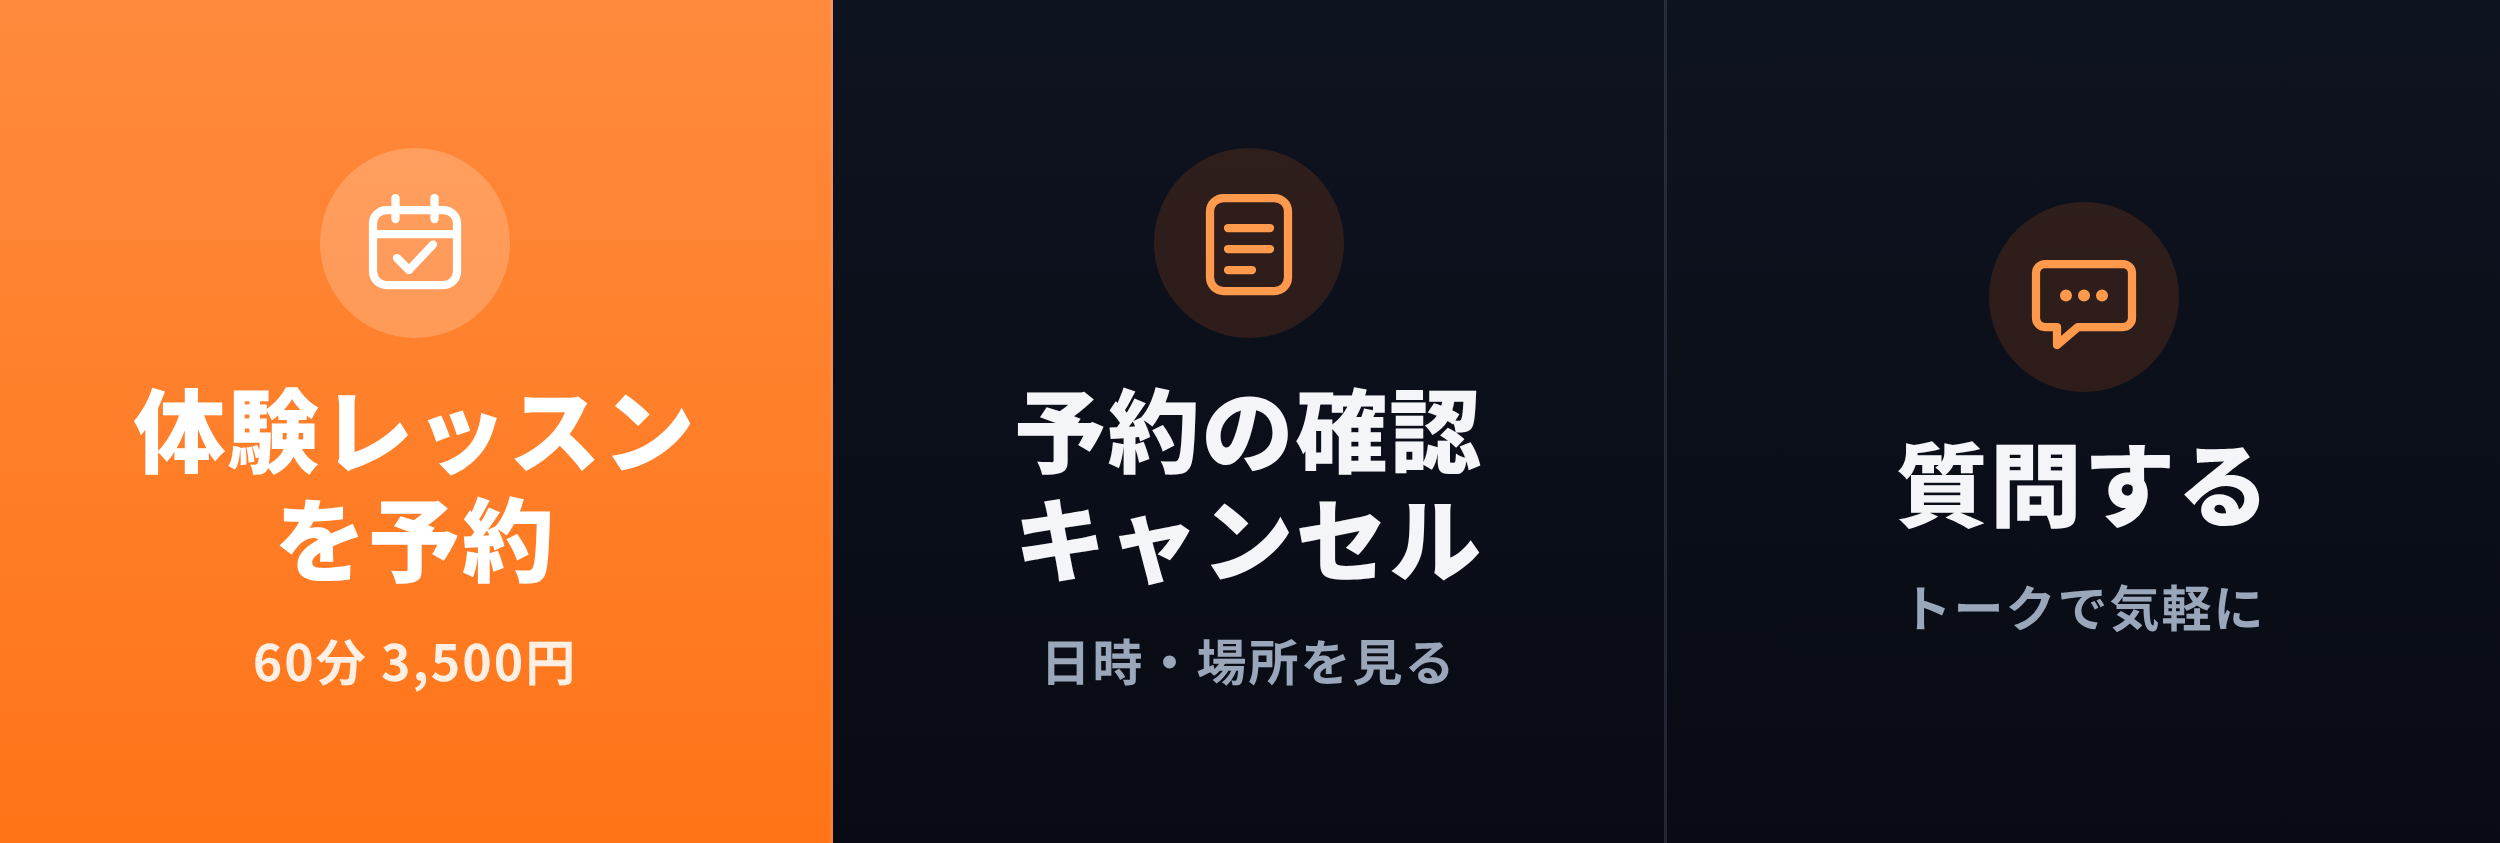
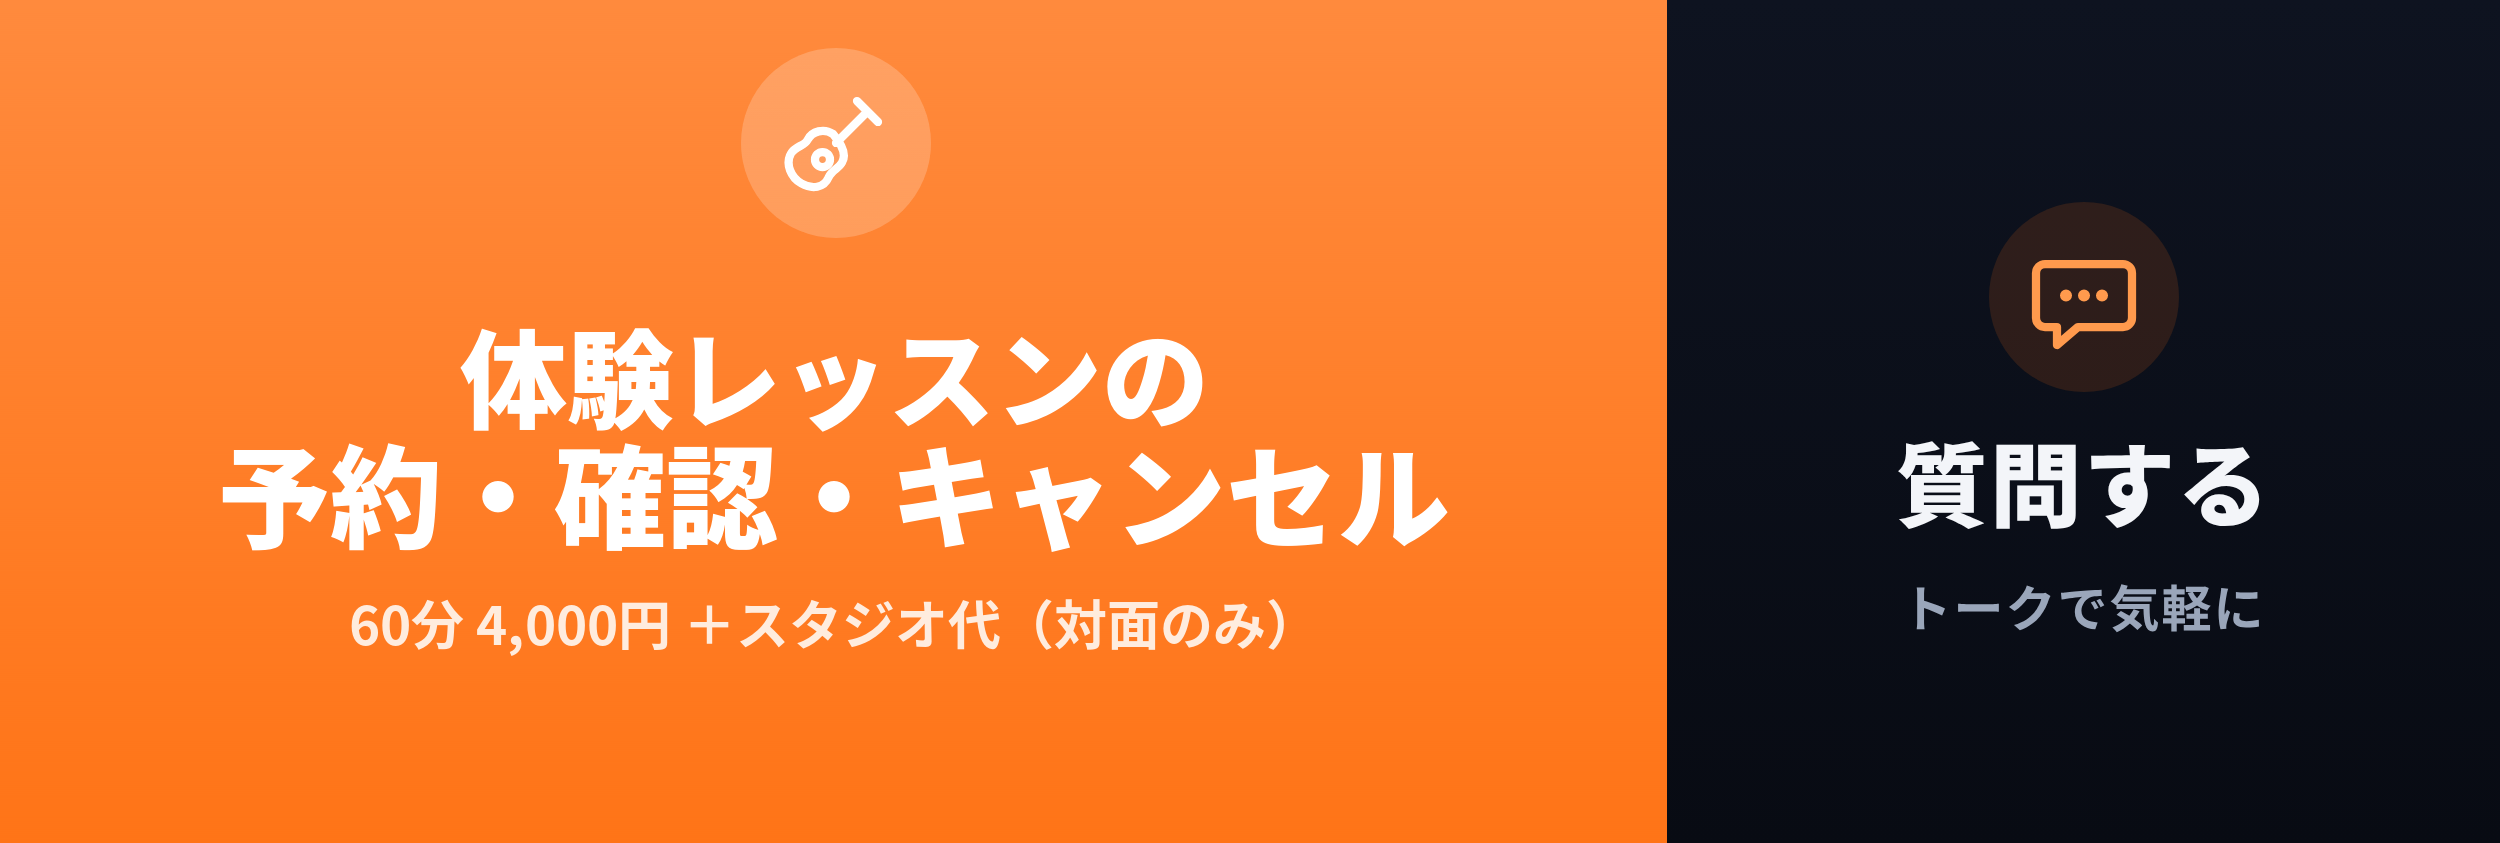
LINE のメニュー：はじめての人も「体験レッスンの予約・確認・キャンセル」と「質問する」の2つに（60分 4,000円 ＋スタジオ代（対面のみ））。生徒さんのメニューから「この1つで、ぜんぶできます」を消す（北川くん）／体験の予約ページ：メールで申し込んだ人に「LINE で予約を確定する」を大きく（送るとその場で確定・お知らせは LINE に。LINE を使わない人はメールで）（北川くん）／生徒さんページ：カレンダーの「今日」の札が2行に折れてかぶっていたのを直す・「この回を取り消す」を決定ボタンのすぐ下に・時計をなぞると LINE のブラウザごと引っぱられたのを止める（北川くんの iPho
Claude-Session: https://claude.ai/code/session_01EBbmQH4uHZhFN8RZfufdhq

diff --git a/assets/js/yoyaku.js b/assets/js/yoyaku.js
@@ -263,7 +263,7 @@
       from: $("y_from").value, website: $("y_web").value, prev, l: lkey };
     const btn = $("ykSend"), err = $("ykErr");
     btn.disabled = true; btn.textContent = "送っています…"; hideErr(err);
-    const send = demo ? new Promise(r => setTimeout(() => r(lkey ? { ok: true, line: true, mode } : { ok: true, pending: true, mode, min: 30, rid: "demo", rk: "demo" }), 700))
+    const send = demo ? new Promise(r => setTimeout(() => r(lkey ? { ok: true, line: true, mode } : { ok: true, pending: true, mode, min: 30, rid: "demo", rk: "demo", lineOk: "https://line.me/R/oaMessage/%40557brylm/" }), 700))
       : fetch(cfg.api, { method: "POST", body: JSON.stringify(data) }).then(r => r.json());
     send.then(r => {
       if (!r.ok) {
@@ -286,10 +286,39 @@
       el.innerHTML = `<span class="chip gr">CONFIRMED</span><h3>予約が確定しました</h3>`
         + `<p>LINE に、確定のお知らせを送りました。${d.mode === "studio" ? "<b>スタジオのお部屋は、レッスンの前の日に北川が予約</b>して、場所を LINE でお知らせします。" : "当日の入り口（Google Meet のリンク）も、LINE のお知らせに入っています。"}</p>`
         + `<ol class="yk-picked">${list}</ol>`
-        + `<p class="small">予約の確認・キャンセルは、LINE のメニューの「予約の確認・キャンセル」からできます。${demo ? "<br>（これは見本です。実際には送っていません）" : ""}</p>`
+        + `<p class="small">予約の確認・キャンセルは、LINE のメニューの「体験レッスンの予約・確認・キャンセル」からできます。${demo ? "<br>（これは見本です。実際には送っていません）" : ""}</p>`
         + (cfg.line ? `<a class="btn or" href="${esc(cfg.line)}">LINE のトークにもどる</a>` : "");
       form.hidden = true; $("ykLine").hidden = true; el.hidden = false;
       el.scrollIntoView({ behavior: "smooth", block: "start" }); el.focus({ preventScroll: true });
+      return;
+    }
+    /* 2026-11-10：メールで申し込んだ人にも、まず「LINE で予約を確定する」を大きく（北川くん）。送るとその場で確定して、お知らせは LINE に届く。
+       LINE を使わない人は、下の小さいボタンから今までどおりメールで確定 */
+    if (r.lineOk && !r.mailWay) {
+      el.innerHTML = `<div class="sk-gate yk-lgate"><span class="chip or">あと1つ</span><h3>LINE で予約を<wbr>確定しましょう</h3>`
+        + `<p>確定のお知らせや、前の日のお知らせ・お部屋の場所が LINE に届きます。</p>`
+        + `<ol class="yk-picked">${list}</ol>`
+        + `<ol class="sk-gs"><li>下のボタンを押すと、LINE が開きます</li><li>入っている文を、そのまま送ってください</li><li>その場で予約が確定します</li></ol>`
+        + `<a class="sk-lnb" id="ykLnOk" href="${esc(r.lineOk)}" target="_blank" rel="noopener"><span>LINE</span>LINE で予約を確定する</a>`
+        + `<p class="sk-gw" id="ykLnWait" hidden>LINE で送ったら、このページに戻ってきてください。確定したか確かめています…</p>`
+        + `<p class="small">${min}分以内に送ってください。公式LINE を友だち追加していない方は、追加してから送るとお知らせが届きます。</p>`
+        + `<button type="button" class="sk-skip" id="ykMailWay">LINE を使わない（メールで確定する）</button></div>`;
+      form.hidden = true; $("ykLine").hidden = true; el.hidden = false;
+      el.scrollIntoView({ behavior: "smooth", block: "start" }); el.focus({ preventScroll: true });
+      let wait = false, tries = 0, timer = 0;
+      const check = () => {
+        if (!wait || document.hidden) return;
+        if (++tries > 30) { clearInterval(timer); return; }
+        const q = demo ? new Promise(res => setTimeout(() => res({ ok: true, state: tries > 1 ? "確定" : "確認待ち", line: tries > 1 }), 300))
+          : fetch(cfg.api + "?a=tst&id=" + encodeURIComponent(r.rid) + "&k=" + encodeURIComponent(r.rk), { cache: "no-store" }).then(x => x.json());
+        q.then(x => { if (wait && x && x.ok && x.state === "確定") { wait = false; clearInterval(timer); finish(d, { ok: true, line: true, mode: d.mode }); } }).catch(() => {});
+      };
+      $("ykLnOk").addEventListener("click", () => {
+        wait = true; tries = 0; $("ykLnWait").hidden = false;
+        clearInterval(timer); timer = setInterval(check, 4000);
+      });
+      document.addEventListener("visibilitychange", () => { if (!document.hidden && wait) setTimeout(check, 600); });
+      $("ykMailWay").addEventListener("click", () => { wait = false; clearInterval(timer); finish(d, Object.assign({}, r, { mailWay: true })); });
       return;
     }
     el.innerHTML = `<span class="chip or">あと1つ</span><h3>メールのリンクを開くと、予約が確定します</h3>`

diff --git a/assets/js/seito.js b/assets/js/seito.js
@@ -393,6 +393,11 @@
   });
   const dragEnd = e => { if (!drag || e.pointerId !== drag.id) return; const d = drag; drag = null; if (!d.moved && e.type === "pointerup") tapHour(d.a); };
   shC.addEventListener("pointerup", dragEnd); shC.addEventListener("pointercancel", dragEnd);
+  /* 2026-11-10：時計を指でなぞると、LINE のブラウザごと下に引っぱられたり、シートがスクロールしたりしていた（北川くんの iPhone 8 の動画）。
+     時計に触れているあいだは、画面のスクロール・引っぱりを止める（古い Safari は touch-action だけでは止まらない） */
+  const holdTouch = e => { if (sheet === "time" && e.target.closest && e.target.closest(".sh-clock svg")) e.preventDefault(); };
+  shC.addEventListener("touchstart", holdTouch, { passive: false });
+  shC.addEventListener("touchmove", holdTouch, { passive: false });
   function shContent(f){
     $("skShT").textContent = FT[f];
     let h = "";
@@ -424,8 +429,9 @@
             : `<button type="button" class="sh-t" data-t="${x.t}"><b>${hm(x.t)}</b><small>〜${hm(x.t + H)}</small></button>`).join("") + `</div></div>`).join("");
     }
     const v = V(f), lab = !v ? "" : f === "mode" ? ML(v) : f === "day" ? `${md(T12(v))}（${wd(T12(v))}）` : "";
-    h += `<div class="sh-okw"><button type="button" class="btn or sh-ok" data-ok${v ? "" : " disabled"}>${v ? `<span>${lab}</span>で決定` : "選んでください"}</button></div>`;
-    if (ed.orig) h += `<button type="button" class="sh-rm" data-rmd>この回を取り消す</button>`;
+    /* 2026-11-10：「この回を取り消す」は決定ボタンの下（同じ枠の中）に。前は下に残るボタンの裏にかくれていた（北川くんの iPhone 8） */
+    h += `<div class="sh-okw"><button type="button" class="btn or sh-ok" data-ok${v ? "" : " disabled"}>${v ? `<span>${lab}</span>で決定` : "選んでください"}</button>`
+      + (ed.orig ? `<button type="button" class="sh-rm" data-rmd>この回を取り消す</button>` : "") + `</div>`;
     shC.innerHTML = h;
     if (f === "time") paintClock(true);
   }

diff --git a/yoyaku.html b/yoyaku.html
@@ -22,7 +22,7 @@
 <link rel="icon" href="assets/favicon-48.png" sizes="48x48" type="image/png">
 <link rel="apple-touch-icon" href="assets/apple-touch-icon.png">
 <link rel="stylesheet" href="assets/css/kk-design-system.css?v=69foca">
-<link rel="stylesheet" href="assets/css/site.css?v=mbssfl">
+<link rel="stylesheet" href="assets/css/site.css?v=e3ua3j">
 <script async src="https://www.googletagmanager.com/gtag/js?id=G-5JD2YM6KF8"></script>
 <script>window.dataLayer=window.dataLayer||[];function gtag(){dataLayer.push(arguments)}gtag("js",new Date());var kkF={ig:"instagram",x:"x",yt:"youtube",tt:"tiktok",sp:"spotify"}[(new URLSearchParams(location.search).get("from")||"").toLowerCase()];gtag("config","G-5JD2YM6KF8",{page_location:location.origin+location.pathname+(kkF?"?utm_source="+kkF+"&utm_medium=social":""),page_referrer:document.referrer.split("?")[0]});
 document.addEventListener("click",function(e){var a=e.target.closest&&e.target.closest("a[href]");if(!a)return;var h=a.getAttribute("href")||"",w=location.pathname;if(/line\.me/.test(h))gtag("event","line_click",{place:w});else if(/yoyaku\.html/.test(h))gtag("event","booking_page_click",{place:w});else if(/lesson\.html/.test(h))gtag("event","lesson_page_click",{place:w});},true);</script>
@@ -114,6 +114,6 @@ document.addEventListener("click",function(e){var a=e.target.closest&&e.target.c
 </main>
 <footer class="yk-ft"><div class="wrap"><small>© 2026 Koki Kitagawa　<a href="./">トップへ</a>　<a href="privacy.html">プライバシーポリシー</a></small></div></footer>
 <script type="application/json" id="ykcfg">{"api":"https://script.google.com/macros/s/AKfycby5bDtbLyKAmUYFXvM5kCBlsdzIqFw126P8803WqGTCRkEivEgTSXqw3pechjk9ozQT/exec","fallback":"","plans":["月2回","月4回","月8回","単発"],"line":"https://line.me/R/oaMessage/@557brylm/","price":4000}</script>
-<script src="assets/js/yoyaku.js?v=gqyk8e" defer></script>
+<script src="assets/js/yoyaku.js?v=3u88uw" defer></script>
 </body>
 </html>

diff --git a/404.html b/404.html
@@ -13,7 +13,7 @@
 <link rel="icon" href="https://kokikitagawa.com/assets/favicon-48.png" sizes="48x48" type="image/png">
 <link rel="apple-touch-icon" href="https://kokikitagawa.com/assets/apple-touch-icon.png">
 <link rel="stylesheet" href="https://kokikitagawa.com/assets/css/kk-design-system.css?v=69foca">
-<link rel="stylesheet" href="https://kokikitagawa.com/assets/css/site.css?v=mbssfl">
+<link rel="stylesheet" href="https://kokikitagawa.com/assets/css/site.css?v=e3ua3j">
 <script async src="https://www.googletagmanager.com/gtag/js?id=G-5JD2YM6KF8"></script>
 <script>window.dataLayer=window.dataLayer||[];function gtag(){dataLayer.push(arguments)}gtag("js",new Date());var kkF={ig:"instagram",x:"x",yt:"youtube",tt:"tiktok",sp:"spotify"}[(new URLSearchParams(location.search).get("from")||"").toLowerCase()];gtag("config","G-5JD2YM6KF8",{page_location:location.origin+location.pathname+(kkF?"?utm_source="+kkF+"&utm_medium=social":""),page_referrer:document.referrer.split("?")[0]});
 document.addEventListener("click",function(e){var a=e.target.closest&&e.target.closest("a[href]");if(!a)return;var h=a.getAttribute("href")||"",w=location.pathname;if(/line\.me/.test(h))gtag("event","line_click",{place:w});else if(/yoyaku\.html/.test(h))gtag("event","booking_page_click",{place:w});else if(/lesson\.html/.test(h))gtag("event","lesson_page_click",{place:w});},true);</script>

diff --git a/index.html b/index.html
@@ -35,7 +35,7 @@
 <link rel="manifest" href="site.webmanifest">
 <meta name="apple-mobile-web-app-title" content="北川弘喜">
 <link rel="stylesheet" href="assets/css/kk-design-system.css?v=69foca">
-<link rel="stylesheet" href="assets/css/site.css?v=mbssfl">
+<link rel="stylesheet" href="assets/css/site.css?v=e3ua3j">
 <style>.ph-guitar::before{background-image:url("img/guitar-900.webp")}.ph-studio::before{background-image:url("img/studio-1000.webp")}.ph-lesson::before{background-image:url("img/lesson-900.webp")}.ph-stage::before{background-image:url("img/stage-1000.webp")}.ph-live::before{background-image:url("img/live-720.webp")}.ph-pedal::before{background-image:url("img/pedal-1200.webp")}.ph-play::before{background-image:url("img/play-1400.webp")}.ph-desk::before{background-image:url("img/desk-900.webp")}.ph-hands::before{background-image:url("img/hands-1400.webp")}.ph-guitars::before{background-image:url("img/guitars-900.webp")}#profile.sbg::before,#profile .sbg-low{background-image:url("img/profile-900.webp")}#works.sbg::before{background-image:url("img/studio-1000.webp")}#lesson.sbg::before{background-image:url("img/lesson-900.webp")}</style>
 <script>document.documentElement.classList.add("js")</script>
 <script async src="https://www.googletagmanager.com/gtag/js?id=G-5JD2YM6KF8"></script>

diff --git a/lesson.html b/lesson.html
@@ -28,7 +28,7 @@
 <link rel="manifest" href="site.webmanifest">
 <meta name="apple-mobile-web-app-title" content="北川弘喜">
 <link rel="stylesheet" href="assets/css/kk-design-system.css?v=69foca">
-<link rel="stylesheet" href="assets/css/site.css?v=mbssfl">
+<link rel="stylesheet" href="assets/css/site.css?v=e3ua3j">
 <style>.ph-guitar::before{background-image:url("img/guitar-900.webp")}.ph-studio::before{background-image:url("img/studio-1000.webp")}.ph-lesson::before{background-image:url("img/lesson-900.webp")}.ph-stage::before{background-image:url("img/stage-1000.webp")}.ph-live::before{background-image:url("img/live-720.webp")}.ph-pedal::before{background-image:url("img/pedal-1200.webp")}.ph-play::before{background-image:url("img/play-1400.webp")}.ph-desk::before{background-image:url("img/desk-900.webp")}.ph-hands::before{background-image:url("img/hands-1400.webp")}.ph-guitars::before{background-image:url("img/guitars-900.webp")}#profile.sbg::before,#profile .sbg-low{background-image:url("img/profile-900.webp")}#works.sbg::before{background-image:url("img/studio-1000.webp")}#lesson.sbg::before{background-image:url("img/lesson-900.webp")}</style>
 <script>document.documentElement.classList.add("js")</script>
 <script async src="https://www.googletagmanager.com/gtag/js?id=G-5JD2YM6KF8"></script>

diff --git a/privacy.html b/privacy.html
@@ -14,7 +14,7 @@
 <link rel="icon" href="assets/favicon-48.png" sizes="48x48" type="image/png">
 <link rel="apple-touch-icon" href="assets/apple-touch-icon.png">
 <link rel="stylesheet" href="assets/css/kk-design-system.css?v=69foca">
-<link rel="stylesheet" href="assets/css/site.css?v=mbssfl">
+<link rel="stylesheet" href="assets/css/site.css?v=e3ua3j">
 <script async src="https://www.googletagmanager.com/gtag/js?id=G-5JD2YM6KF8"></script>
 <script>window.dataLayer=window.dataLayer||[];function gtag(){dataLayer.push(arguments)}gtag("js",new Date());var kkF={ig:"instagram",x:"x",yt:"youtube",tt:"tiktok",sp:"spotify"}[(new URLSearchParams(location.search).get("from")||"").toLowerCase()];gtag("config","G-5JD2YM6KF8",{page_location:location.origin+location.pathname+(kkF?"?utm_source="+kkF+"&utm_medium=social":""),page_referrer:document.referrer.split("?")[0]});
 document.addEventListener("click",function(e){var a=e.target.closest&&e.target.closest("a[href]");if(!a)return;var h=a.getAttribute("href")||"",w=location.pathname;if(/line\.me/.test(h))gtag("event","line_click",{place:w});else if(/yoyaku\.html/.test(h))gtag("event","booking_page_click",{place:w});else if(/lesson\.html/.test(h))gtag("event","lesson_page_click",{place:w});},true);</script>

diff --git a/assets/css/site.css b/assets/css/site.css
@@ -2436,3 +2436,15 @@ section.s.lteach{padding:clamp(44px,6vw,80px) 0 clamp(8px,2vw,24px)}
 .yk-page .ykw{max-width:100%;overflow-x:clip}
 .yk-page .ykw form,.yk-page .ykw fieldset,.yk-page #ykCheck,.yk-page #ykCheck>div,.yk-page #ykCheck dd,.yk-page .yk-brief,.yk-page .yk-brief dd{min-width:0;max-width:100%;box-sizing:border-box}
 .yk-page fieldset{min-inline-size:0}
+
+/* 2026-11-10：体験の予約ページ：メールで申し込んだ人に「LINE で予約を確定する」（生徒さんページの「まず LINE をつなぎましょう」と同じ形） */
+.yk-done .yk-lgate{margin:0;padding:0;box-shadow:none;background:none}
+.yk-done .yk-lgate h3{margin:4px 0 0;color:#3ddc84}
+.yk-done .yk-lgate .yk-picked{margin:0}
+.yk-done .yk-lgate .small{margin:0;font-size:12.5px;color:var(--faint)}
+
+.yk-done .yk-lgate>.chip{justify-self:start}
+/* 2026-11-10：生徒さんページのカレンダー（北川くんの iPhone 8）：「今日」の札が2行に折れて日にちにかぶっていた → 1行に・小さく上へ */
+.sh-cal .td::before{white-space:nowrap;word-break:keep-all;top:-6px;padding:1px 4px}
+.sh-okw .sh-rm{margin:10px auto 0}
+.sk-shp{overscroll-behavior:contain}

diff --git a/seito.html b/seito.html
@@ -17,7 +17,7 @@
 <link rel="icon" href="assets/favicon-48.png" sizes="48x48" type="image/png">
 <link rel="apple-touch-icon" href="assets/apple-touch-icon.png">
 <link rel="stylesheet" href="assets/css/kk-design-system.css?v=69foca">
-<link rel="stylesheet" href="assets/css/site.css?v=mbssfl">
+<link rel="stylesheet" href="assets/css/site.css?v=e3ua3j">
 </head>
 <body class="doc yk-page sk-page">
 <header class="hd solid"><div class="wrap"><a class="logo" href="./">KOKI KITAGAWA<small>GUITARIST / COMPOSER</small></a><span class="yk-back">生徒さん<wbr>専用</span></div></header>
@@ -97,6 +97,6 @@
 </main>
 <footer class="yk-ft"><div class="wrap"><small>© 2026 Koki Kitagawa　<a href="./">トップへ</a>　<a href="privacy.html">プライバシーポリシー</a></small></div></footer>
 <script type="application/json" id="ykcfg">{"api":"https://script.google.com/macros/s/AKfycby5bDtbLyKAmUYFXvM5kCBlsdzIqFw126P8803WqGTCRkEivEgTSXqw3pechjk9ozQT/exec","single":9000}</script>
-<script src="assets/js/seito.js?v=abocs1" defer></script>
+<script src="assets/js/seito.js?v=tiprtq" defer></script>
 </body>
 </html>
